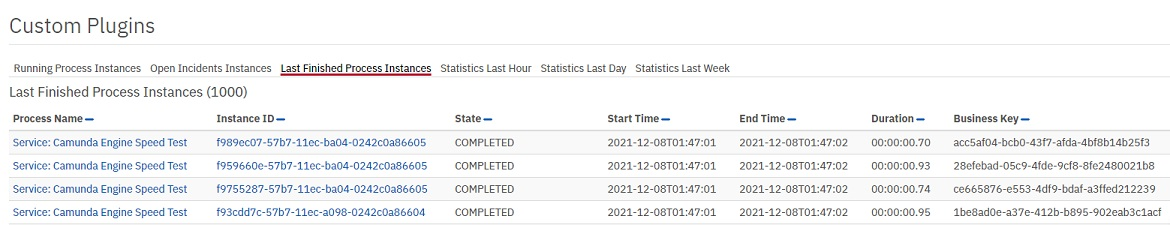
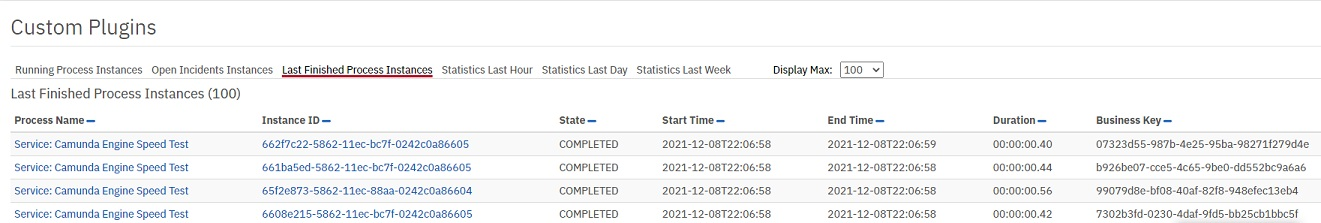
Dic updated

diff --git a/process-statistics.js b/process-statistics.js
@@ -6920,7 +6920,7 @@ var post = function (api, path, params, payload) { return __awaiter(void 0, void
 }); };
 
 var tableMessage = 'Display Max:';
-var statMessage = 'Finished Instances to analize:';
+var statMessage = 'Finished Instances to analyze:';
 var items = [
     { title: 'Running Process Instances', defaultMaxResults: 10, selectMaxResult: [10, 100, 1000], selectMessage: tableMessage,
         path: '/history/process-instance', sortBy: 'startTime', options: { unfinished: true }, type: 'table', links: '/process-instance/' },

diff --git a/src/process-statistics.tsx b/src/process-statistics.tsx
@@ -9,7 +9,7 @@ import { StatisticsPluginParams } from './types';
 import { post } from './utils/api';
 
 const tableMessage = 'Display Max:';
-const statMessage = 'Finished Instances to analize:';
+const statMessage = 'Finished Instances to analyze:';
 
 const items = [
   { title: 'Running Process Instances', defaultMaxResults: 10, selectMaxResult: [10,100,1000], selectMessage: tableMessage,

diff --git a/README.md b/README.md
@@ -7,13 +7,14 @@ Insired by Asko Soukka History Plugin https://github.com/datakurre/camunda-cockp
 Plugin consists of 6 interactive reports available in Camunda Dashboard:   
 1. Running Process Instances   
 2. Open Incident Instances (running processes with incidents)   
-3. Last Finished Processes (limited to 1000)   
+3. Last Finished Processes   
 ![Finished processes in dashboard](Finished.jpg)
 4. Finished Processes - Statistics (last hour)   
 ![Process statistics in dashboard](Statistics.jpg)
 5. Finished Processes - Statistics (last day)   
 6. Finished Processes - Statistics (last week)   
-All statistics reports analize max 100000 last finished processes and count stats data.   
+User can select number of processes to display or number of processes to analyze
+All statistics reports analize up to 100000 last finished processes and count stats data per Process.   
 
 ## Installation
 1. Just copy process-statistics.js file to camunda cockpit scripts directory.   
